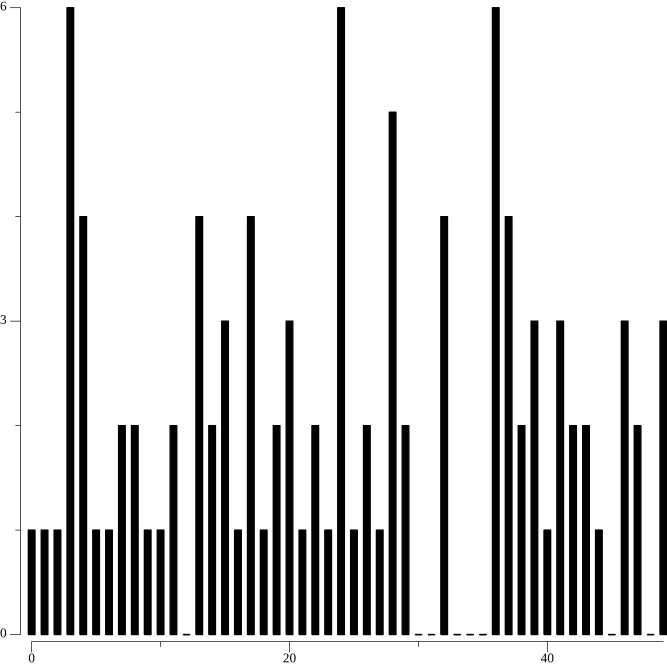
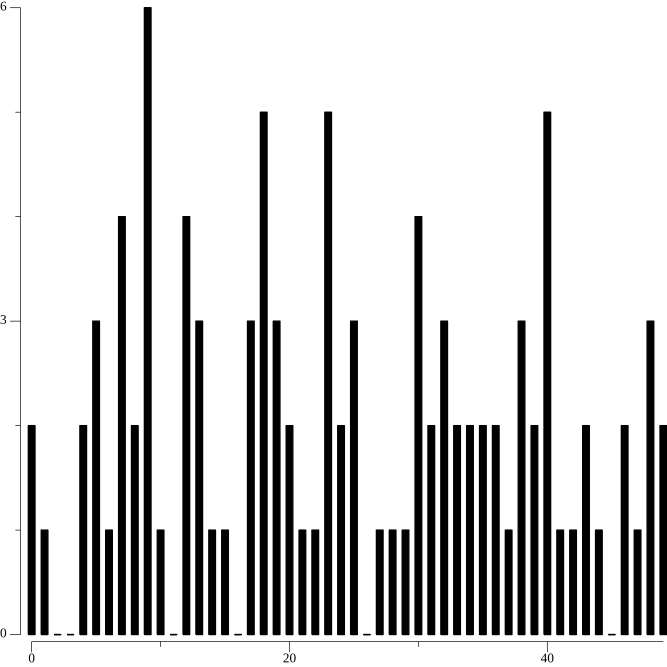
feat: lab04

Changed region(s): [[0.3598, 0.0, 0.8696, 0.9595], [0.03, 0.0, 0.3598, 0.9595], [0.9295, 0.4798, 1.0, 0.9595]]

diff --git a/lab04/task03/main.go b/lab04/task03/main.go
@@ -1,0 +1,181 @@
+package main
+
+import (
+	"ParallelLabs/lab02/task02/utils"
+	"fmt"
+	"github.com/thoas/go-funk"
+	"gonum.org/v1/plot"
+	"gonum.org/v1/plot/plotter"
+	"math"
+)
+
+type Seed [4]uint64
+
+func KissN(n int, seed Seed) []uint64 {
+	x := make([]uint64, n)
+
+	for i := 0; i < n; i++ {
+		seed[0] = 69069*seed[0] + 123456
+		seed[1] = seed[1] ^ (seed[1] << 13)
+		seed[1] = seed[1] ^ (seed[1] >> 17)
+		seed[1] = seed[1] ^ (seed[1] << 5)
+		t := 698769069*seed[2] + seed[3]
+		seed[3] = t >> 32
+		seed[2] = t
+		x[i] = seed[0] + seed[1] + seed[2]
+	}
+
+	return x
+}
+
+func UniformN(n int, seed Seed) []float64 {
+	x := KissN(n, seed)
+	y := make([]float64, n)
+	for i := range x {
+		y[i] = float64(x[i]) / math.MaxUint64
+	}
+	return y
+}
+
+func Normal(seed Seed) (float64, float64) {
+	var s, u1, u2 float64
+	newSeed := [4]uint64(KissN(4, seed))
+	for {
+		newSeed = [4]uint64(KissN(4, newSeed))
+		u := UniformN(2, newSeed)
+		u1 = u[0]
+		u2 = u[1]
+
+		if newSeed[0]%2 == 0 {
+			u1 = -u1
+		}
+
+		if newSeed[1]%2 == 0 {
+			u2 = -u2
+		}
+
+		s = u1*u1 + u2*u2
+		if s > 0 && s <= 1 {
+			break
+		}
+	}
+	x := u1 * math.Pow(-2*math.Log(s)/s, 0.5)
+	y := u2 * math.Pow(-2*math.Log(s)/s, 0.5)
+	return x, y
+}
+
+func NormalN(n int, seed Seed) []float64 {
+	x := make([]float64, n+1)
+	s := KissN((n+1)*4, seed)
+	for i := 0; i < n; i += 2 {
+		x[i], x[i+1] = Normal(Seed(s[i*2 : i*2+4]))
+	}
+	return x[:n]
+}
+
+func ExponentialN(n int, lambda float64, seed Seed) []float64 {
+	x := UniformN(n, seed)
+	for i := range x {
+		x[i] = -math.Log(1-x[i]) / lambda
+	}
+	return x
+}
+
+func Poisson(lambda float64, seed Seed) uint64 {
+	a := math.Exp(-lambda)
+	k := uint64(0)
+	p := float64(1)
+
+	for {
+		k += 1
+		seed = Seed(KissN(4, seed))
+		u := UniformN(1, seed)[0]
+		p *= u
+
+		if p <= a {
+			return k - 1
+		}
+	}
+}
+
+func PoissonN(n int, lambda float64, seed Seed) []uint64 {
+	x := make([]uint64, n)
+	for i := range x {
+		seed = Seed(KissN(4, seed))
+		x[i] = Poisson(lambda, seed)
+	}
+	return x
+}
+
+// WeibullN
+// распределение https://help.fsight.ru/ru/mergedProjects/lib/05_statistics/distribution/lib_weibulldistribution.htm
+// калькулятор https://homepage.divms.uiowa.edu/~mbognar/applets/weibull.html
+func WeibullN(n int, lambda, k float64, seed Seed) []float64 {
+	x := UniformN(n, seed)
+	for i := range x {
+		x[i] = lambda * math.Pow(-math.Log(x[i]), 1/k)
+	}
+	return x
+}
+
+func PlotHistogram(x []float64, name string, n int) {
+	p := plot.New()
+	hist, _ := plotter.NewHist(plotter.Values(x), n)
+	p.Add(hist)
+	err := p.Save(1000, 500, fmt.Sprintf("lab04/task03/plots/%s.png", name))
+	if err != nil {
+		panic(err)
+	}
+}
+
+func main() {
+	const n = 10_000_000
+	const h = 200
+	const threads = 8
+	seed := Seed{5, 9, 267, 26342}
+
+	normal := NormalN(n, seed)
+	PlotHistogram(normal, "normal", h)
+	sa := utils.ParallelSampleAverage(normal, threads)
+	ubs := utils.ParallelUnbiasedBiasedSampleVariance(normal, threads)
+	fmt.Println("Нормальное распределение")
+	fmt.Printf("μ = %.2f\n", sa)
+	fmt.Printf("σ = %.2f\n\n", ubs)
+
+	lambda := 0.5
+	exponential := ExponentialN(n, lambda, seed)
+	PlotHistogram(exponential, "exponential", h)
+	sa = utils.ParallelSampleAverage(exponential, threads)
+	ubs = utils.ParallelUnbiasedBiasedSampleVariance(exponential, threads)
+	fmt.Println("Экспоненциальное распределение")
+	fmt.Printf("λ = %.2f\n", lambda)
+	fmt.Printf("μ = 1/λ = %.2f\n", sa)
+	fmt.Printf("σ = 1/λ = %.2f\n", math.Sqrt(ubs))
+	fmt.Printf("σ^2 = (1/λ)^2 = %.2f\n\n", ubs)
+
+	lambda = 10
+	poisson := PoissonN(n, lambda, seed)
+	poissonF := funk.Map(poisson, func(a uint64) float64 {
+		return float64(a)
+	}).([]float64)
+	PlotHistogram(poissonF, "poisson", h)
+	sa = utils.ParallelSampleAverage(poissonF, threads)
+	ubs = utils.ParallelUnbiasedBiasedSampleVariance(poissonF, threads)
+	fmt.Println("Распределение Пуассона")
+	fmt.Printf("λ = %.2f\n", lambda)
+	fmt.Printf("μ = λ = %.2f\n", sa)
+	fmt.Printf("σ = √λ = %.2f\n", math.Sqrt(ubs))
+	fmt.Printf("σ^2 = λ = %.2f\n\n", ubs)
+
+	lambda = 1
+	k := 1.5
+	weibull := WeibullN(n, lambda, k, seed)
+	PlotHistogram(weibull, "weibull", h)
+	sa = utils.ParallelSampleAverage(weibull, threads)
+	ubs = utils.ParallelUnbiasedBiasedSampleVariance(weibull, threads)
+	fmt.Println("Распределение Вейбулла")
+	fmt.Printf("λ = %.2f\tk = %.2f\n", lambda, k)
+	fmt.Printf("μ = %.2f\n", sa)
+	fmt.Printf("σ = %.2f\n", math.Sqrt(ubs))
+	fmt.Printf("σ^2 = %.2f\n\n", ubs)
+}

diff --git a/lab04/task01-02/main.go b/lab04/task01-02/main.go
@@ -105,11 +105,12 @@ func KissStatParallel(n int, threads int, seeds [][4]uint64) ([]uint64, float64,
 
 	x := make([]uint64, n)
 	wg := new(sync.WaitGroup)
-	mu := new(sync.Mutex)
 	wg.Add(threads)
 	h := n / threads
-	var sa, usv float64
-	var num uint64
+
+	sas := make([]float64, threads)  // средние групп
+	usvs := make([]float64, threads) // дисперсии групп
+	ns := make([]int, threads)       // размеры групп
 
 	for i := 0; i < threads; i++ {
 		i := i
@@ -124,7 +125,11 @@ func KissStatParallel(n int, threads int, seeds [][4]uint64) ([]uint64, float64,
 			} else {
 				stop = n
 			}
+			ns[i] = stop - start
+
 			var t uint64
+
+			num := 0
 
 			for j := start; j < stop; j++ {
 				seed0 = 69069*seed0 + 123456
@@ -134,33 +139,43 @@ func KissStatParallel(n int, threads int, seeds [][4]uint64) ([]uint64, float64,
 				t = 698769069*seed2 + seed3
 				seed3 = t >> 32
 				seed1 = t
-				elem := seed0 + seed1 + seed2
-				x[j] = elem
+				x[j] = seed0 + seed1 + seed2
 
-				mu.Lock()
-				nowNum := num
-				num += 1
-				mu.Unlock()
-
-				if nowNum != 0 {
-					usv += math.Pow(float64(elem)-sa, 2)/float64(nowNum+1) - usv/float64(nowNum)
+				if num != 0 {
+					usvs[i] += math.Pow(float64(x[j])-sas[i], 2)/float64(num+1) - usvs[i]/float64(num)
 				}
-				sa += (float64(elem) - sa) / float64(nowNum+1)
+				sas[i] += (float64(x[j]) - sas[i]) / float64(num+1)
 
+				num += 1
 			}
 		}()
 	}
 
 	wg.Wait()
+
+	var sa float64 // общее среднее
+	for i := 0; i < threads; i++ {
+		sa += sas[i] * float64(ns[i])
+	}
+	sa /= float64(n)
+
+	var intra float64 // внутригрупповая дисперсия
+	var inter float64 // межгрупповая дисперсия
+	for i := 0; i < threads; i++ {
+		intra += usvs[i] * float64(ns[i])
+		inter += math.Pow(sas[i]-sa, 2) * float64(ns[i])
+	}
+	usv := (intra + inter) / float64(n) // общая дисперсия
+
 	return x, sa, usv
 }
 
 func main() {
-	n := 8
+	threads := 8
 
 	// autofill
 	var seeds [][4]uint64
-	for i := 0; i < n; i++ {
+	for i := 0; i < threads; i++ {
 		seeds = append(seeds, [4]uint64{rand.Uint64(), rand.Uint64(), rand.Uint64(), rand.Uint64()})
 	}
 
@@ -176,14 +191,13 @@ func main() {
 	//	{29, 30, 31, 32},
 	//}
 
-	//count := 1_000_000_001
-	//count := 100000000
-	count := 10_000_000
+	count := 10_000_0000
 
+	var sa, usv float64
 	const h = 2
 	var sum time.Duration
 
-	// однопоточный
+	fmt.Println("ОДНОПОТОЧНЫЙ")
 	sum = time.Duration(0)
 	for i := 0; i < h; i++ {
 		runtime.GC()
@@ -192,38 +206,43 @@ func main() {
 		t2 := time.Now()
 		sum += t2.Sub(t1)
 	}
-	fmt.Println(sum / time.Duration(h))
+	fmt.Printf("время: %s\n\n", sum/time.Duration(h))
 
-	// однопоточный со статистикой
+	fmt.Println("ОДНОПОТОЧНЫЙ СО СТАТИСТИКОЙ")
 	sum = time.Duration(0)
 	for i := 0; i < h; i++ {
 		runtime.GC()
 		t1 := time.Now()
-		_, _, _ = KissStat(count, seeds[0])
+		_, sa, usv = KissStat(count, seeds[0])
 		t2 := time.Now()
 		sum += t2.Sub(t1)
 	}
-	fmt.Println(sum / time.Duration(h))
+	fmt.Printf("время: %s\n", sum/time.Duration(h))
+	fmt.Printf("среднее: %v\n", sa)
+	fmt.Printf("дисперсия: %v\n\n", usv)
 
-	// многопоточный
+	fmt.Println("МНОГОПОТОЧНЫЙ")
 	sum = time.Duration(0)
 	for i := 0; i < h; i++ {
 		runtime.GC()
 		t1 := time.Now()
-		_ = KissParallel(count, n, seeds)
+		_ = KissParallel(count, threads, seeds)
 		t2 := time.Now()
 		sum += t2.Sub(t1)
 	}
-	fmt.Println(sum / time.Duration(h))
+	fmt.Printf("время: %s\n\n", sum/time.Duration(h))
 
-	// многопоточный со статистикой
+	fmt.Println("МНОГОПОТОЧНЫЙ СО СТАТИСТИКОЙ")
 	sum = time.Duration(0)
 	for i := 0; i < h; i++ {
 		runtime.GC()
 		t1 := time.Now()
-		_, _, _ = KissStatParallel(count, n, seeds)
+		_, sa, usv = KissStatParallel(count, threads, seeds)
 		t2 := time.Now()
 		sum += t2.Sub(t1)
 	}
-	fmt.Println(sum / time.Duration(h))
+	fmt.Printf("время: %s\n", sum/time.Duration(h))
+	fmt.Printf("среднее: %v\n", sa)
+	fmt.Printf("дисперсия: %v\n\n", usv)
+
 }

diff --git a/lab03/task04/main.go b/lab03/task04/main.go
@@ -35,7 +35,7 @@ func KissPlus(n int, seed [4]uint64) ([]uint64, float64, float64) {
 }
 
 func main() {
-	for _, n := range []int{100_000_000, 1_000_000_000} {
+	for _, n := range []int{10_000_000, 100_000_000} {
 		x, saf, usvf := KissPlus(n, [4]uint64{rand.Uint64(), rand.Uint64(), rand.Uint64(), rand.Uint64()})
 
 		xf := make([]float64, len(x))

diff --git a/lab02/task01/main.go b/lab02/task01/main.go
@@ -40,7 +40,7 @@ func main() {
 				ends[i] = time.Now()
 			}()
 			log.Printf("(!) Горутина '%d' запустилась", i+1)
-			time.Sleep(time.Duration(i) * time.Second)
+			time.Sleep(time.Duration(i+1) * time.Second)
 			log.Printf("(?) Горутина '%d' завершилась", i+1)
 		}()
 	}

diff --git a/lab02/task02/main.go b/lab02/task02/main.go
@@ -9,7 +9,7 @@ import (
 
 func main() {
 	//test()
-	elems := utils.GenerateElems(100_000_000)
+	elems := utils.GenerateElems(10_000_000)
 
 	t1 := time.Now()
 	unbiasedSampleVariance := utils.UnbiasedSampleVariance(elems)
